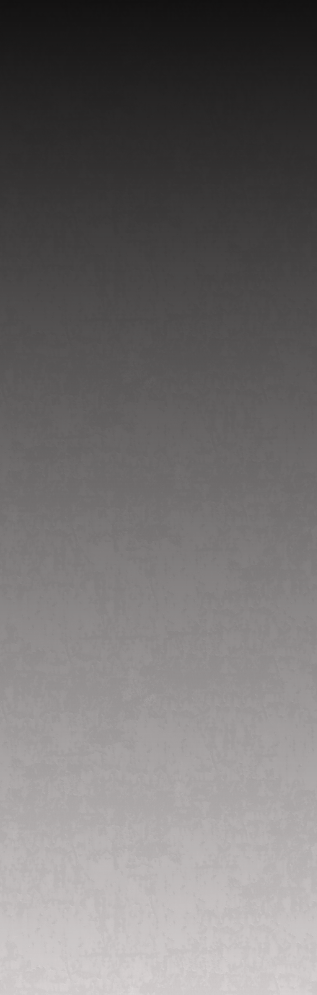
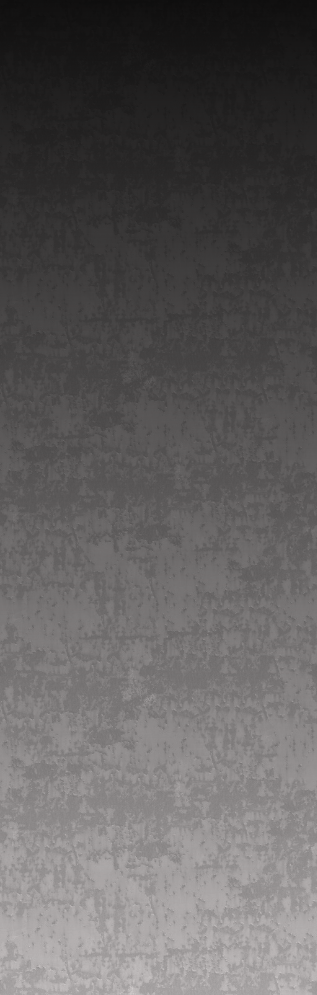
more texture to dark alternate background

Changed region(s): [[0.0, 0.4985, 1.0, 1.0], [0.0, 0.5608, 0.0284, 0.592]]

diff --git a/app/src/app.css b/app/src/app.css
@@ -1,1 +1,1 @@
-.headerstyle{background-size:contain;background-position:center top;height:180px}body{background:##e3dede;background-image:url("images/zenbg-1.png"),url("images/zenbg-2.png");background-repeat:repeat-x,repeat}header{background-image:url('images/brick.jpg');background-size:contain;background-position:center top;height:180px;-webkit-box-shadow:5px 0 5px 5px #000;-moz-box-shadow:5px 0 5px 5px #000;box-shadow:5px 0 5px 5px #000}#primary{margin:75px auto 0 auto}.logo{width:75%;position:fixed;left:50%;margin:0 0 0 -37.5%}.logo #villas{position:relative;margin:0 auto;width:220px;top:-50px}.logo #villas img.logo{text-align:center}
+.headerstyle{background-size:contain;background-position:center top;height:180px}body{background:#e3dede;background-image:url("images/zenbg-1.png"),url("images/zenbg-2.png");background-repeat:repeat-x,repeat}header{background-image:url('images/brick.jpg');background-size:contain;background-position:center top;height:180px;-webkit-box-shadow:5px 0 5px 5px #000;-moz-box-shadow:5px 0 5px 5px #000;box-shadow:5px 0 5px 5px #000}#primary{margin:75px auto 0 auto}.logo{width:75%;position:fixed;left:50%;margin:0 0 0 -37.5%}.logo #villas{position:relative;margin:0 auto;width:220px;top:-50px}.logo #villas img.logo{text-align:center}

diff --git a/app/src/app.less b/app/src/app.less
@@ -6,7 +6,7 @@
   height: 180px;
 }
 body{
-  background: ##e3dede;
+  background: #e3dede;
   background-image: url("images/zenbg-1.png"), url("images/zenbg-2.png");
   background-repeat: repeat-x, repeat;
 
